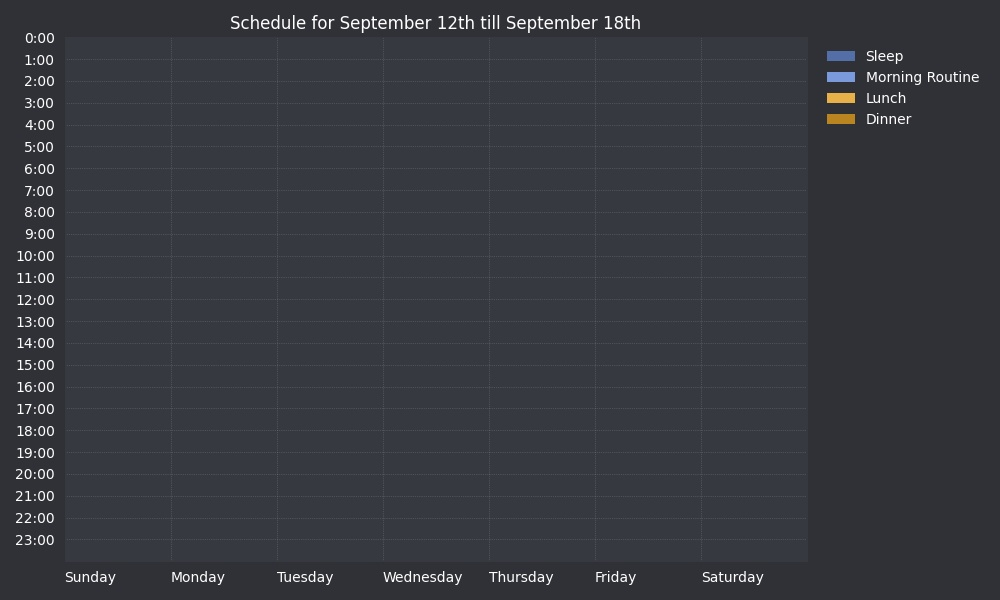
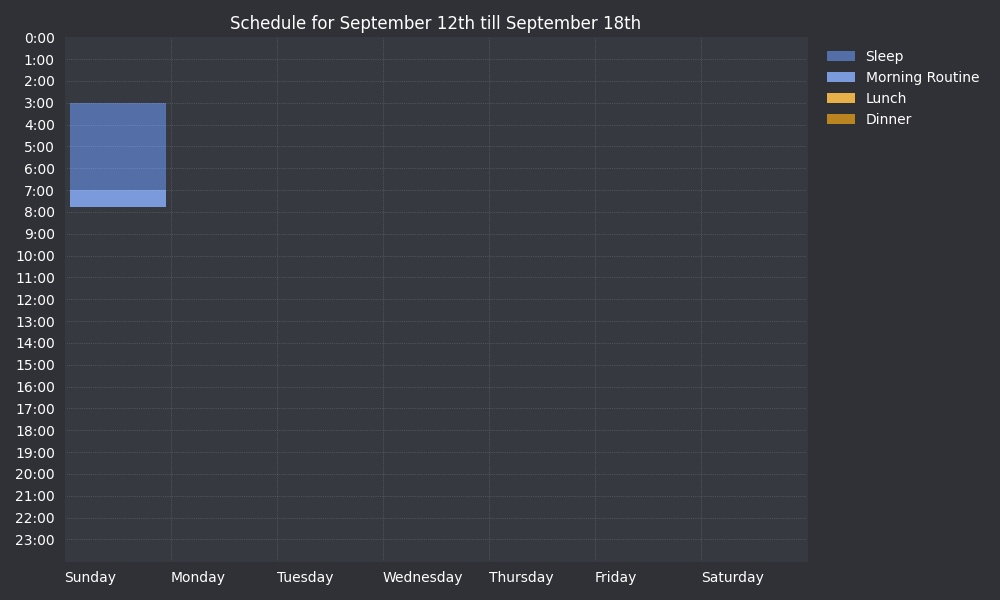
routines in 15 minute timeslots

Changed region(s): [[0.062, 0.15, 0.186, 0.36]]

diff --git a/project/gui/add_routine_gui.py b/project/gui/add_routine_gui.py
@@ -1,6 +1,7 @@
+import datetime
 import sys
 
-from PyQt5.QtWidgets import QWidget, QFormLayout, QLineEdit, QDateEdit, QVBoxLayout
+from PyQt5.QtWidgets import QWidget, QFormLayout, QLineEdit, QDateEdit, QVBoxLayout, QHBoxLayout
 from PyQt5.QtWidgets import QLabel, QSlider, QComboBox, QCheckBox, QTimeEdit
 from PyQt5.QtWidgets import QPushButton, QApplication, QStyleFactory
 from PyQt5.QtCore import QRegExp, Qt, QDate
@@ -25,7 +26,7 @@ class AddRoutineWindow(GeneralWindow):
                         )
         icon = QIcon(self.prefs.images['icon_add'])
         self.setWindowIcon(icon)
-        self.setFixedWidth(250)
+        self.setFixedWidth(300)
 
         # Layout
         form_layout = QFormLayout()
@@ -47,24 +48,34 @@ class AddRoutineWindow(GeneralWindow):
 
         # start time
         title_start_time = QLabel('Start Time')
-        title_start_time.setStyleSheet(self.prefs.style_sheets['text_mute_tight'])
-        self.start_time = QTimeEdit(self)
-        self.start_time.setStyleSheet("padding: 5px 10px;")
-        # self.start_time.valueChanged.connect(self.update_endtime)
-        self.start_time.timeChanged.connect(self.update_endtime)
 
-        # duration
-        self.end_time = QLabel("End time", self)
-        self.end_time.setStyleSheet("padding: 5px 10px;")
-        self.end_time.setStyleSheet(self.prefs.style_sheets['text_mute_tight'])
+        start_time_layout = QHBoxLayout()
+        start_time_layout.addWidget(QLabel("Start time"))
+        start_time_layout.addStretch(1)
 
-        title_duration = QLabel('Duration')
-        title_duration.setStyleSheet(self.prefs.style_sheets['text_mute_tight'])
+        self.start_hour = QComboBox(self)
+        self.start_hour.addItems([f'{x}' for x in range(24)])
+        start_time_layout.addWidget(self.start_hour)
+        start_time_layout.addWidget(QLabel('h'))
+        self.start_min = QComboBox(self)
+        self.start_min.addItems(['0', '15', '30', '45'])
+        start_time_layout.addWidget(self.start_min)
+        start_time_layout.addWidget(QLabel('m'))
 
-        self.duration = QSlider(Qt.Horizontal, self)
-        self.duration.setMinimum(1)
-        self.duration.setMaximum(288)  # 24 hours
-        self.duration.valueChanged.connect(self.update_endtime)
+        # End time
+        title_end_time = QLabel("End time")
+        end_time_layout = QHBoxLayout()
+        end_time_layout.addWidget(QLabel("End time"))
+        end_time_layout.addStretch(1)
+
+        self.end_hour = QComboBox(self)
+        self.end_hour.addItems([f'{x}' for x in range(24)])
+        end_time_layout.addWidget(self.end_hour)
+        end_time_layout.addWidget(QLabel('h'))
+        self.end_min = QComboBox(self)
+        self.end_min.addItems(['0', '15', '30', '45'])
+        end_time_layout.addWidget(self.end_min)
+        end_time_layout.addWidget(QLabel('m'))
 
         # recurrence
         title_recurrence = QLabel('Recurrence')
@@ -86,25 +97,32 @@ class AddRoutineWindow(GeneralWindow):
         # add widgets to layout
         form_layout.addRow(title)
         form_layout.addRow(title_category, self.category)
-        form_layout.addRow(title_start_time, self.start_time)
-        form_layout.addRow(title_duration, self.duration)
-        form_layout.addRow(self.end_time)
+        form_layout.addRow(start_time_layout)
+        form_layout.addRow(end_time_layout)
         form_layout.addRow(title_recurrence, self.recurrence)
         form_layout.addRow(self.overlap_text)
         form_layout.addRow(self.add_button)
         self.setLayout(form_layout)
 
-    def update_endtime(self):
-        start = self.start_time.time()
-        dur = self.duration.value()
-        end = start.addSecs(int(dur*5*60))
-        self.end_time.setText("End time: " + end.toString())
+    # def update_endtime(self):
+    #     start = self.start_time.time()
+    #     dur = self.duration.value()
+    #     end = start.addSecs(int(dur*5*60))
+    #     self.end_time.setText("End time: " + end.toString())
 
     def add_routine(self):
 
         # get all values
-        start = self.start_time.time().toString()
-        dur = self.duration.value()  # slots
+        # start = self.start_time.time().toString()
+        # dur = self.duration.value()  # slots
+
+        start = datetime.time(int(self.start_hour.currentText()), int(self.start_min.currentText()))
+        end = datetime.time(int(self.end_hour.currentText()), int(self.end_min.currentText()))
+        dummydate = datetime.date(1, 1, 1)
+        start_dum = datetime.datetime.combine(dummydate, start)
+        end = datetime.datetime.combine(dummydate, end)
+        duration = end - start_dum
+        slots = divmod(duration.total_seconds(), 900)[0]
 
         cat = self.category.currentText()
         id = Schedule.id_dict[cat]
@@ -118,7 +136,7 @@ class AddRoutineWindow(GeneralWindow):
 
         # add event to schedule
         for i in day_dict[days]:
-            Schedule.AddOccurrence(id, i, start, dur)
+            Schedule.AddOccurrence(id, i, str(start), int(slots))
 
         # Check overlap
         if Schedule.schedule.Update():

diff --git a/project/gui/routines_list.py b/project/gui/routines_list.py
@@ -25,9 +25,9 @@ class RoutinesList(QListWidget):
                 days = ['Monday', 'Tuesday', 'Wednesday', 'Thursday', 'Friday', 'Saturday', 'Sunday']
                 day = days[day]
                 start_time = occurrence[0][1]
-                start_time = General.Slot2Time(start_time, 5)
+                start_time = General.Slot2Time(start_time, 15)
                 end_time = occurrence[1][1]
-                end_time = General.Slot2Time(end_time, 5)
+                end_time = General.Slot2Time(end_time, 15)
                 item = RoutineItem(name, day, start_time, end_time, self.ls_w, self.prefs)
 
                 self.addItem(item)
